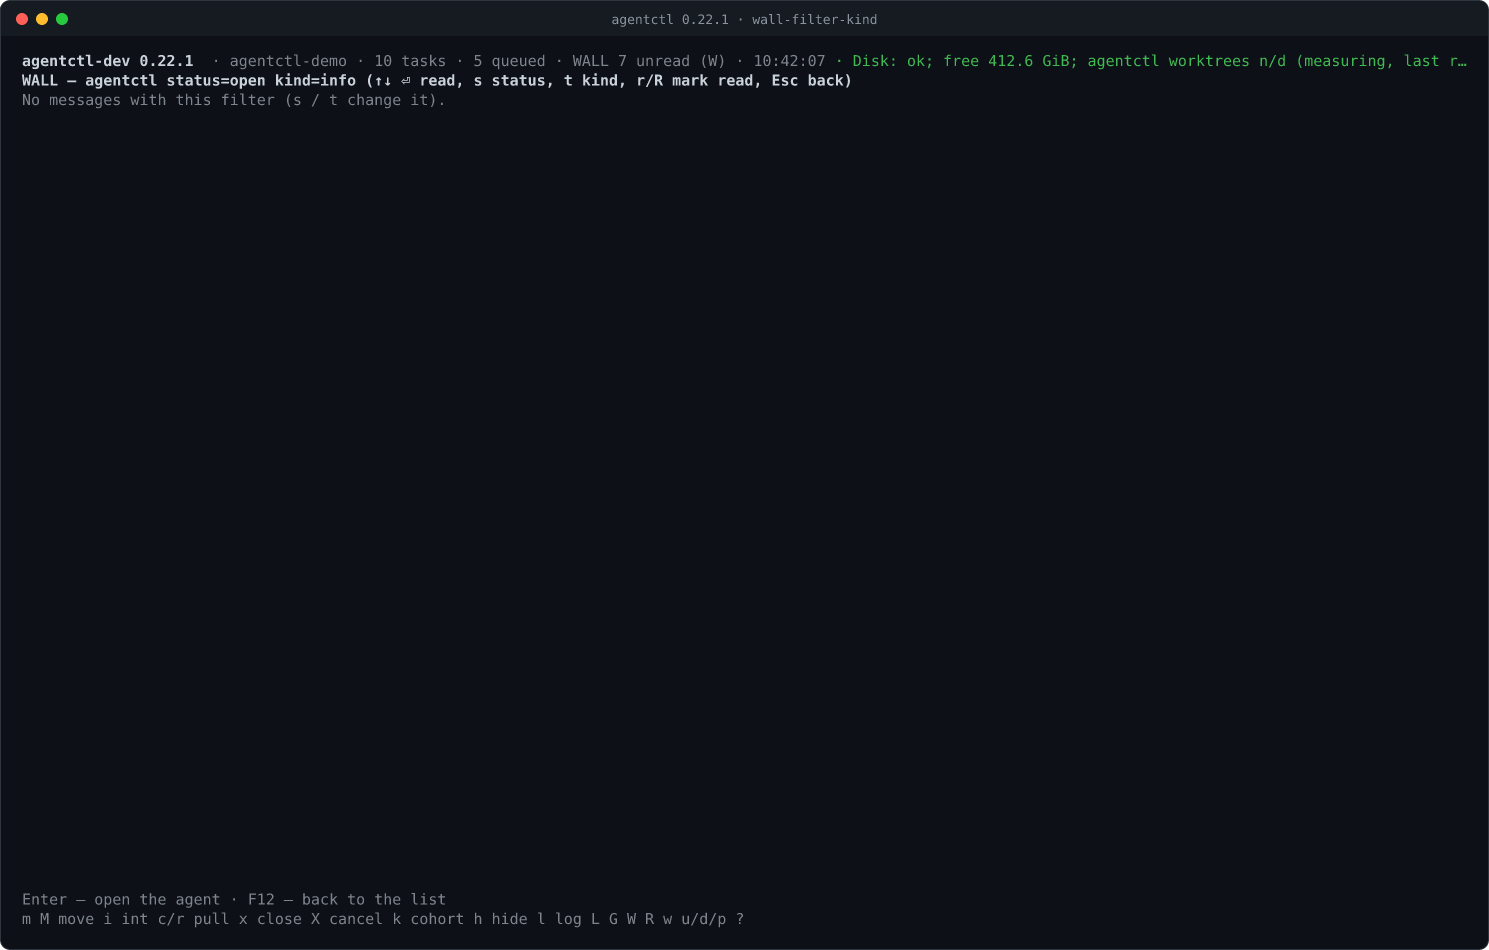
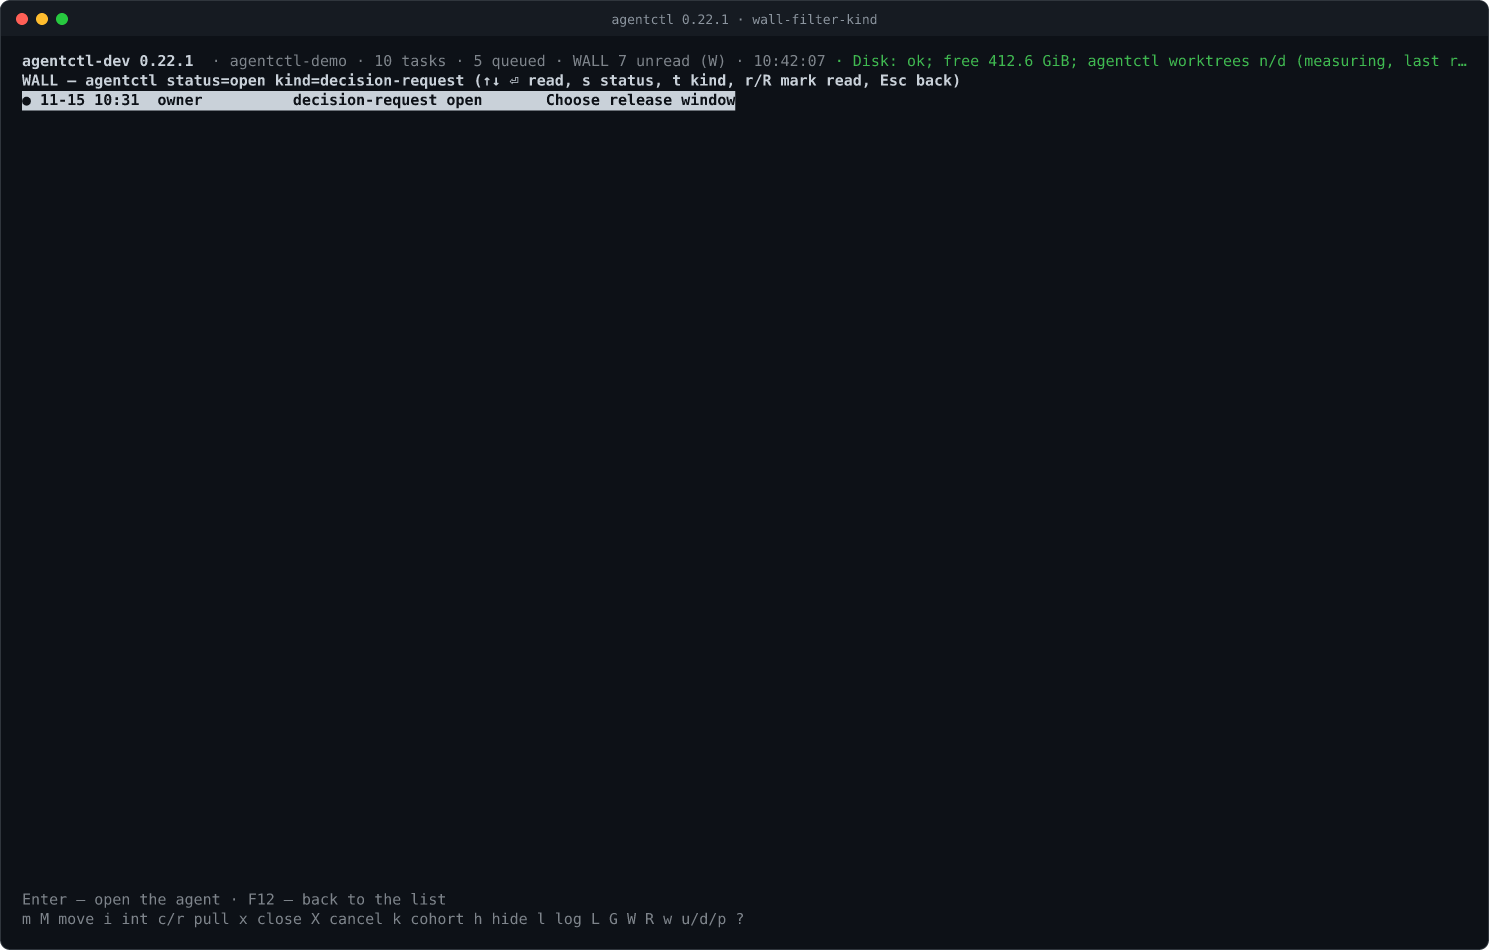
docs: correct validation types and stabilize final gallery

Changed region(s): [[0.0, 0.0611, 0.6488, 0.1221]]

diff --git a/scripts/docs-gallery.ts b/scripts/docs-gallery.ts
@@ -67,6 +67,9 @@ await withHarness({ name: 'docs-gallery', session: 'agentctl-demo', config: 'lim
   };
   const captures: { name: string; bytes: number }[] = [];
   const capture = async (name: string) => {
+    h.tmux(['resize-window', '-t', target, '-x', '161', '-y', '45']);
+    await pause(250);
+    h.tmux(['resize-window', '-t', target, '-x', '160', '-y', '45']);
     await pause(600);
     const ansi = h.tmux(['capture-pane', '-e', '-p', '-t', target]).stdout;
     if (/\/Users\/|marcin|cache-dev|agentctl-wt|\/private\/tmp/i.test(ansi)) throw new Error(`non-generic path in ${name}:\n${plain()}`);
@@ -96,7 +99,7 @@ await withHarness({ name: 'docs-gallery', session: 'agentctl-demo', config: 'lim
   await select('REVIEW-UI-CART-2'); await pause(2300); await capture('board-queue');
   await key('W'); await until('WALL', s => s.includes('shared:sim') && s.includes('channels')); await capture('wall-channels');
   await key('Enter'); await until('messages', s => s.includes('Choose release window')); await capture('wall-messages');
-  await key('s'); await capture('wall-filter-status'); await key('t'); await capture('wall-filter-kind');
+  await key('s'); await capture('wall-filter-status'); await key('t'); await key('t'); await key('t'); await capture('wall-filter-kind');
   await key('Escape'); await key('Enter'); // reset filters on channel re-entry
   await key('Down'); await key('Down'); await key('Enter');
   await until('thread', s => s.includes('Reviewed:') && !s.includes('Loading…')); await capture('wall-thread');

diff --git a/tests/docs.test.ts b/tests/docs.test.ts
@@ -103,7 +103,7 @@ describe('docs: mcp', () => {
 });
 
 describe('docs: links and versions', () => {
-  const files = ['README.md', 'README.pl.md', 'CHANGELOG.md', 'CONTRIBUTING.md', ...fs.readdirSync(path.join(REPO_ROOT, 'docs'), { recursive: true }).filter((f) => f.endsWith('.md')).map((f) => `docs/${f}`)];
+  const files = ['README.md', 'README.pl.md', 'CHANGELOG.md', 'CONTRIBUTING.md', ...fs.readdirSync(path.join(REPO_ROOT, 'docs'), { recursive: true }).map(String).filter((f) => f.endsWith('.md')).map((f) => `docs/${f}`)];
 
   it('relative links and anchors in the documents point at something that exists', () => {
     const problems: string[] = [];

diff --git a/CHANGELOG.md b/CHANGELOG.md
@@ -6,6 +6,8 @@ All notable changes to this project are documented here. The format follows [Kee
 
 ## [0.22.1] - 2026-11-15
 
+- Documentation validation: type the recursive file inventory explicitly; freeze demo host readings and show a populated WALL filter. No runtime behavior change. / Walidacja dokumentacji: jawny typ inwentarza, stałe odczyty hosta demo i filtr WALL z wynikiem. Bez zmiany runtime.
+
 - Documentation-only release: matching EN/PL manuals, concise front pages, from-zero installation/tutorial, all 67 MCP tools/four permission groups and 204 configuration keys, provider and token-economics guidance, Project inserts and ordering guide. / Wydanie dokumentacji: zgodne instrukcje EN/PL, zwięzłe strony główne, instalacja/samouczek od zera, 67 narzędzi MCP/cztery grupy i 204 klucze konfiguracji, dostawcy/ekonomia, wstawki Projektu i przewodnik zlecającego.
 - Twenty real TUI captures from an isolated fake-provider demo; local C4 Context/Containers and task/WALL/CONSULT sequence diagrams with PlantUML, SVG and PNG. Runtime behavior is unchanged from 0.22.0. / Dwadzieścia prawdziwych zrzutów TUI z izolowanego demo atrap; lokalne C4 i sekwencje zadania/WALL/CONSULT w PlantUML, SVG i PNG. Runtime bez zmian względem 0.22.0.
 - Documentation links, bilingual coverage, generated schemas and image/diagram artifacts are checked by the quick gate; release notes summarize the 0.20.x–0.22.x series. / Quick gate sprawdza linki, pokrycie językowe, schematy i artefakty; notes podsumowują serię 0.20.x–0.22.x.
